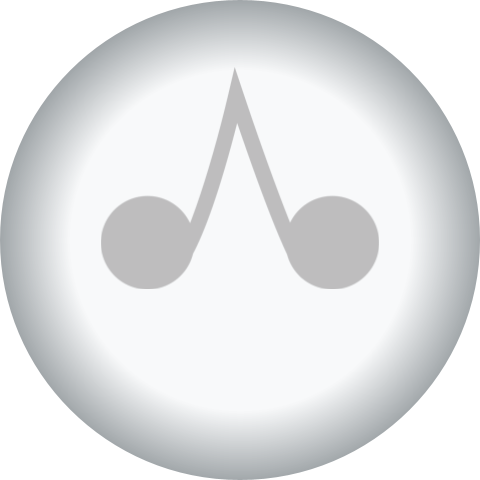
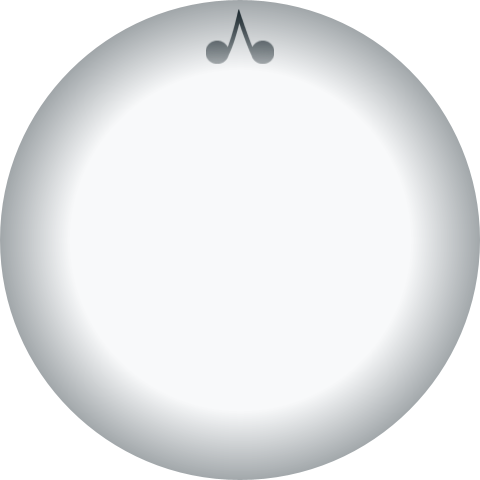
Added CAPSpaces Demo

Changed region(s): [[0.1875, 0.1562, 0.8125, 0.625], [0.4062, 0.0312, 0.5938, 0.1562]]

diff --git a/index.html b/index.html
@@ -117,6 +117,18 @@
                 </div>
               </div>
             </div>
+            <!-- CAPSpaces Demo -->
+            <div class="col">
+              <div class="card h-100 hover-shadow">
+                <a href="capspaces-demo">
+                  <img src="images/capspaces-demo-icon.png"
+                       class="card-img-top" alt="CAPSpaces Demo">
+                </a>
+                <div class="card-footer bg-dark bg-gradient text-white">
+                  <h5 class="mb-0 text-truncate"> CAPSpaces Demo </h5>
+                </div>
+              </div>
+            </div>
             <!-- Live Directory -->
             <div class="col">
               <div class="card h-100 hover-shadow">
